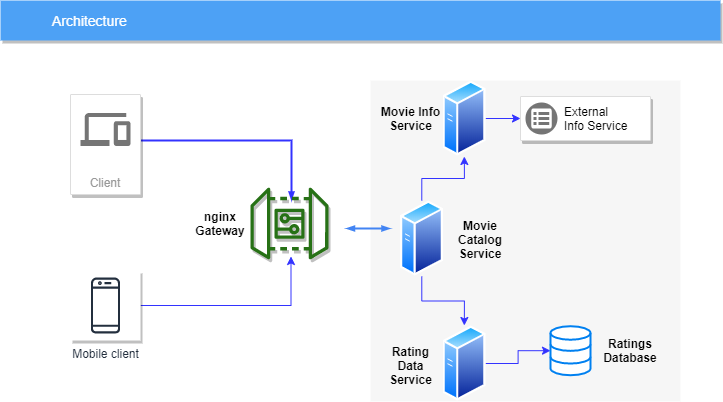
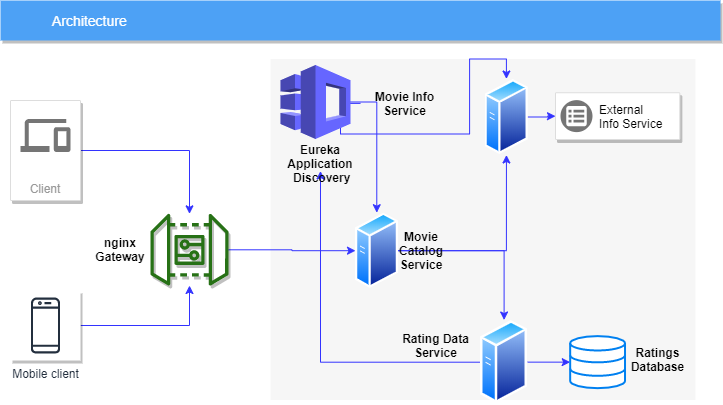
readme edit

diff --git a/README.md b/README.md
@@ -1,3 +1,10 @@
 # Movie API Service
 
 ![Architecture](assets/movieService.png "Architecture")
+
+Services
+
+- Movie Catalog Service
+- Movie Info Service
+- Ratings Data Service
+- Eureka Discovery Server
